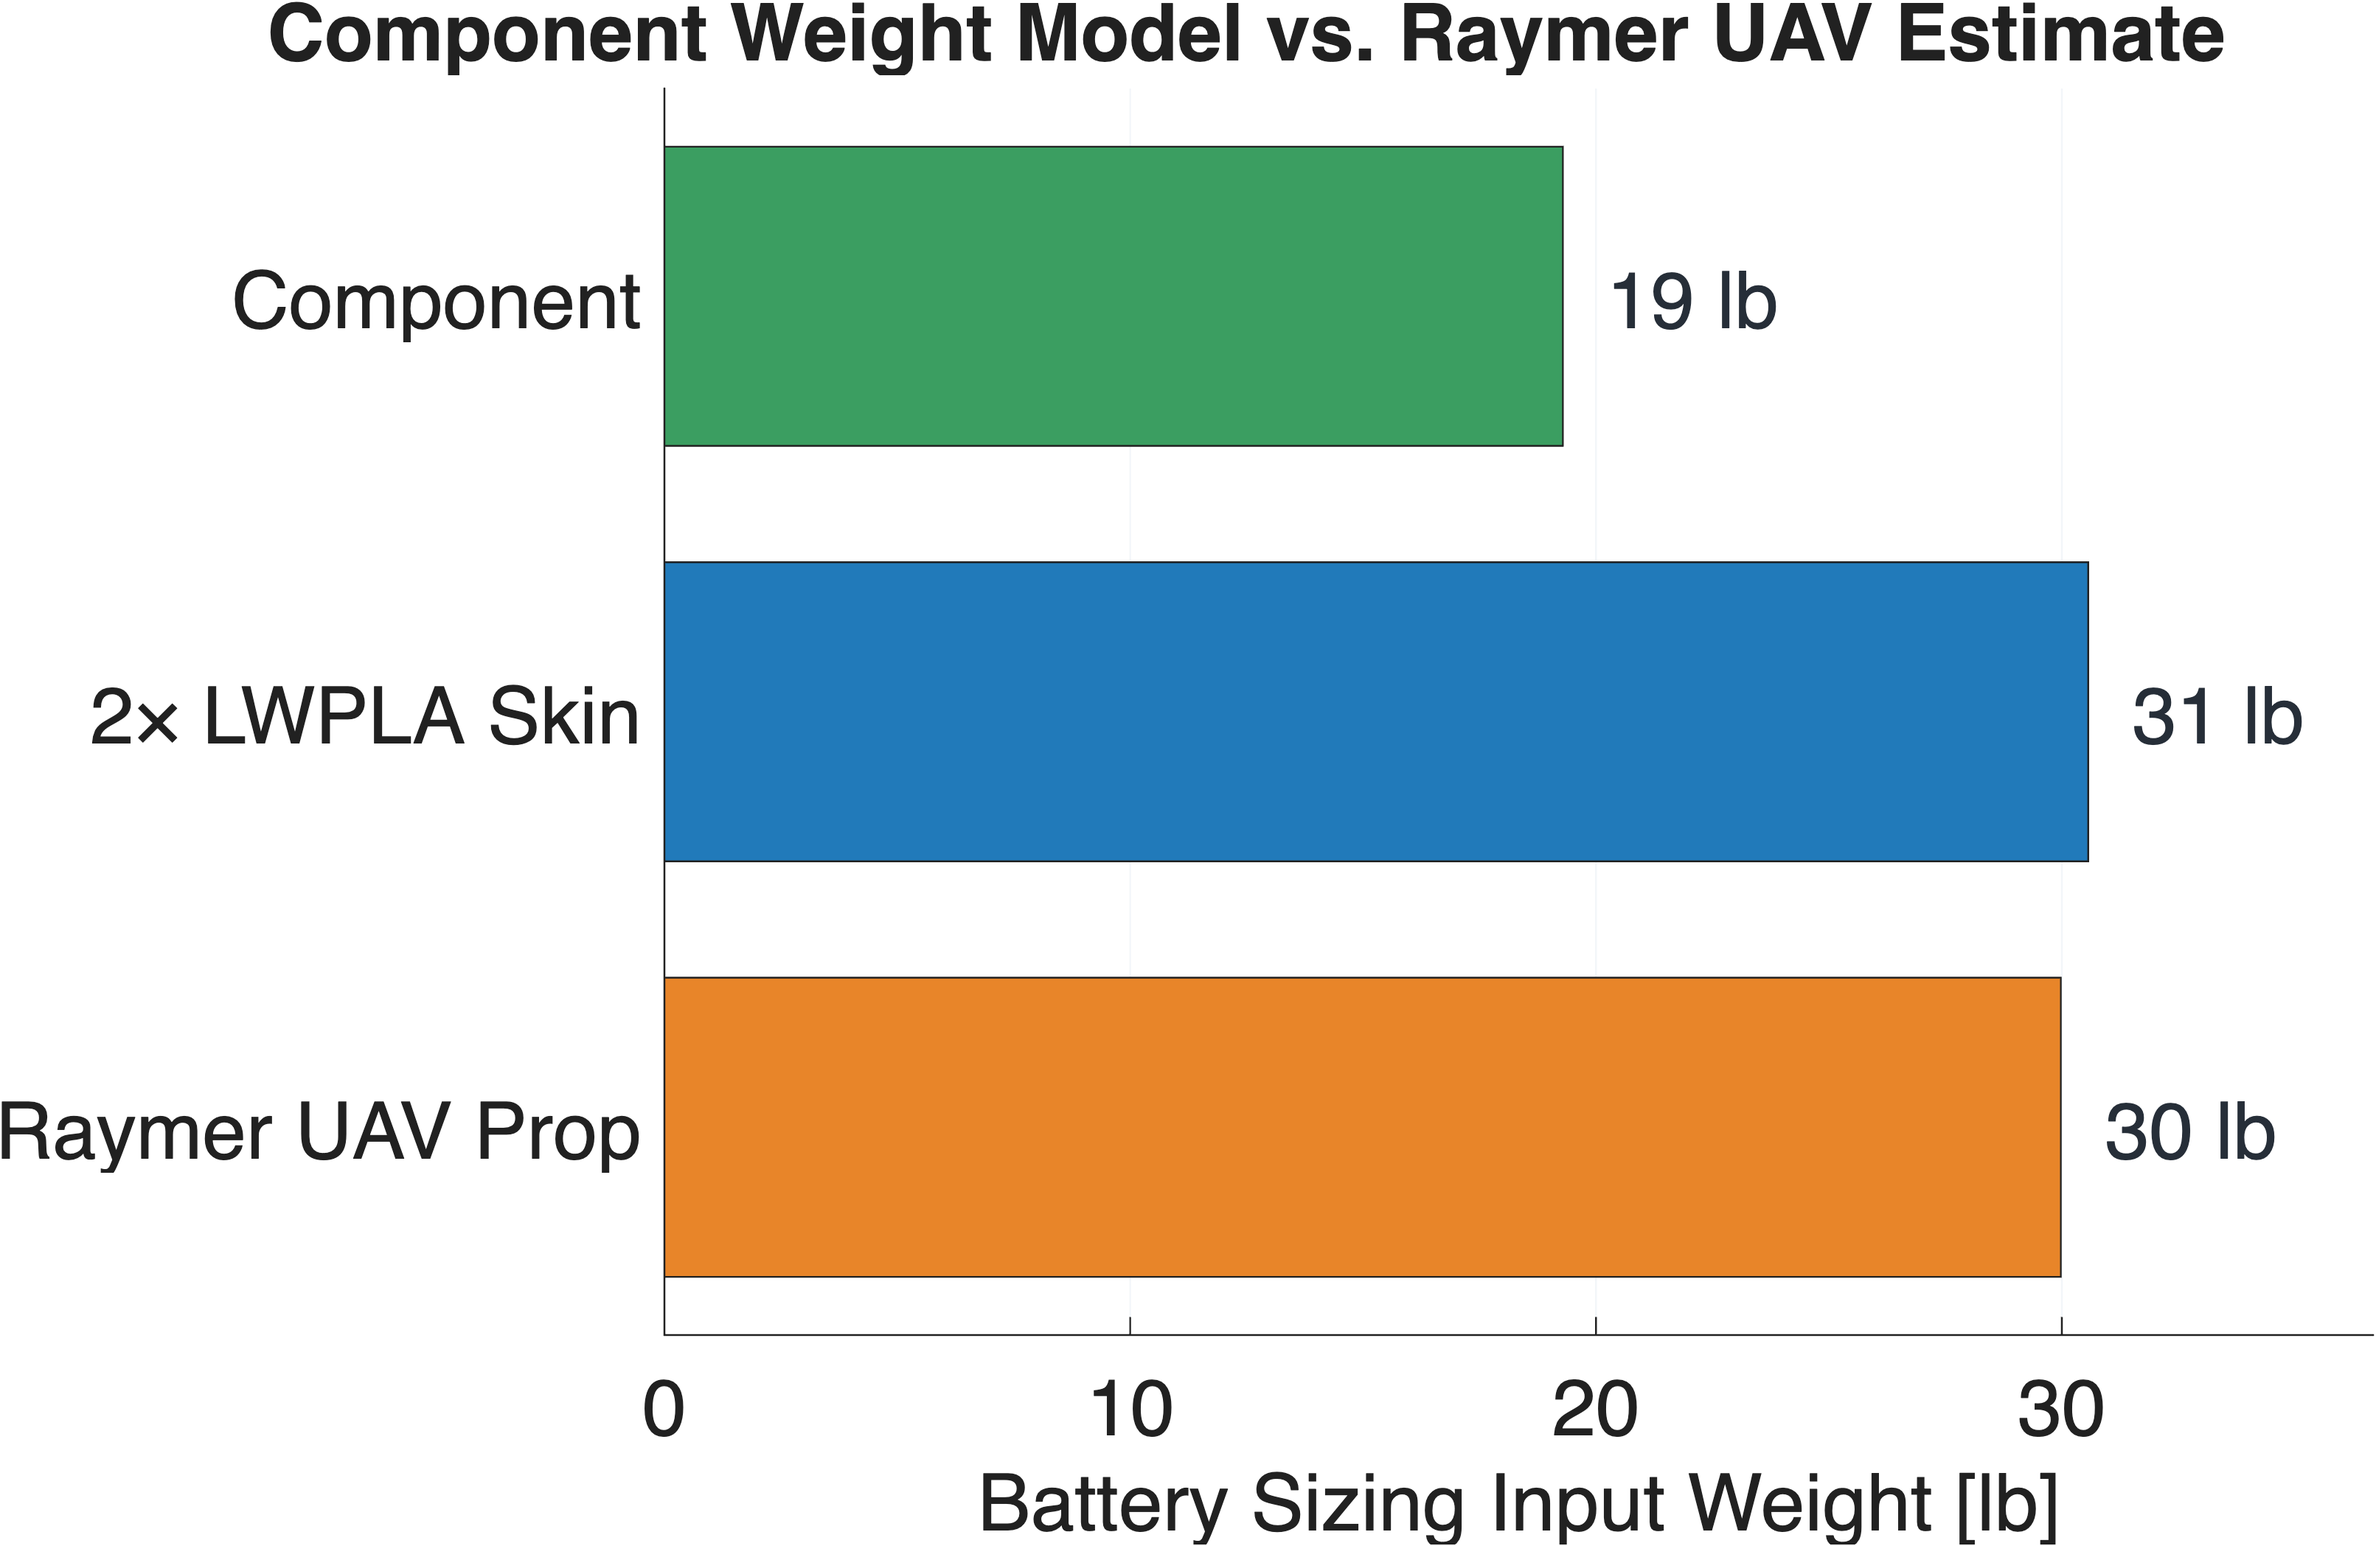
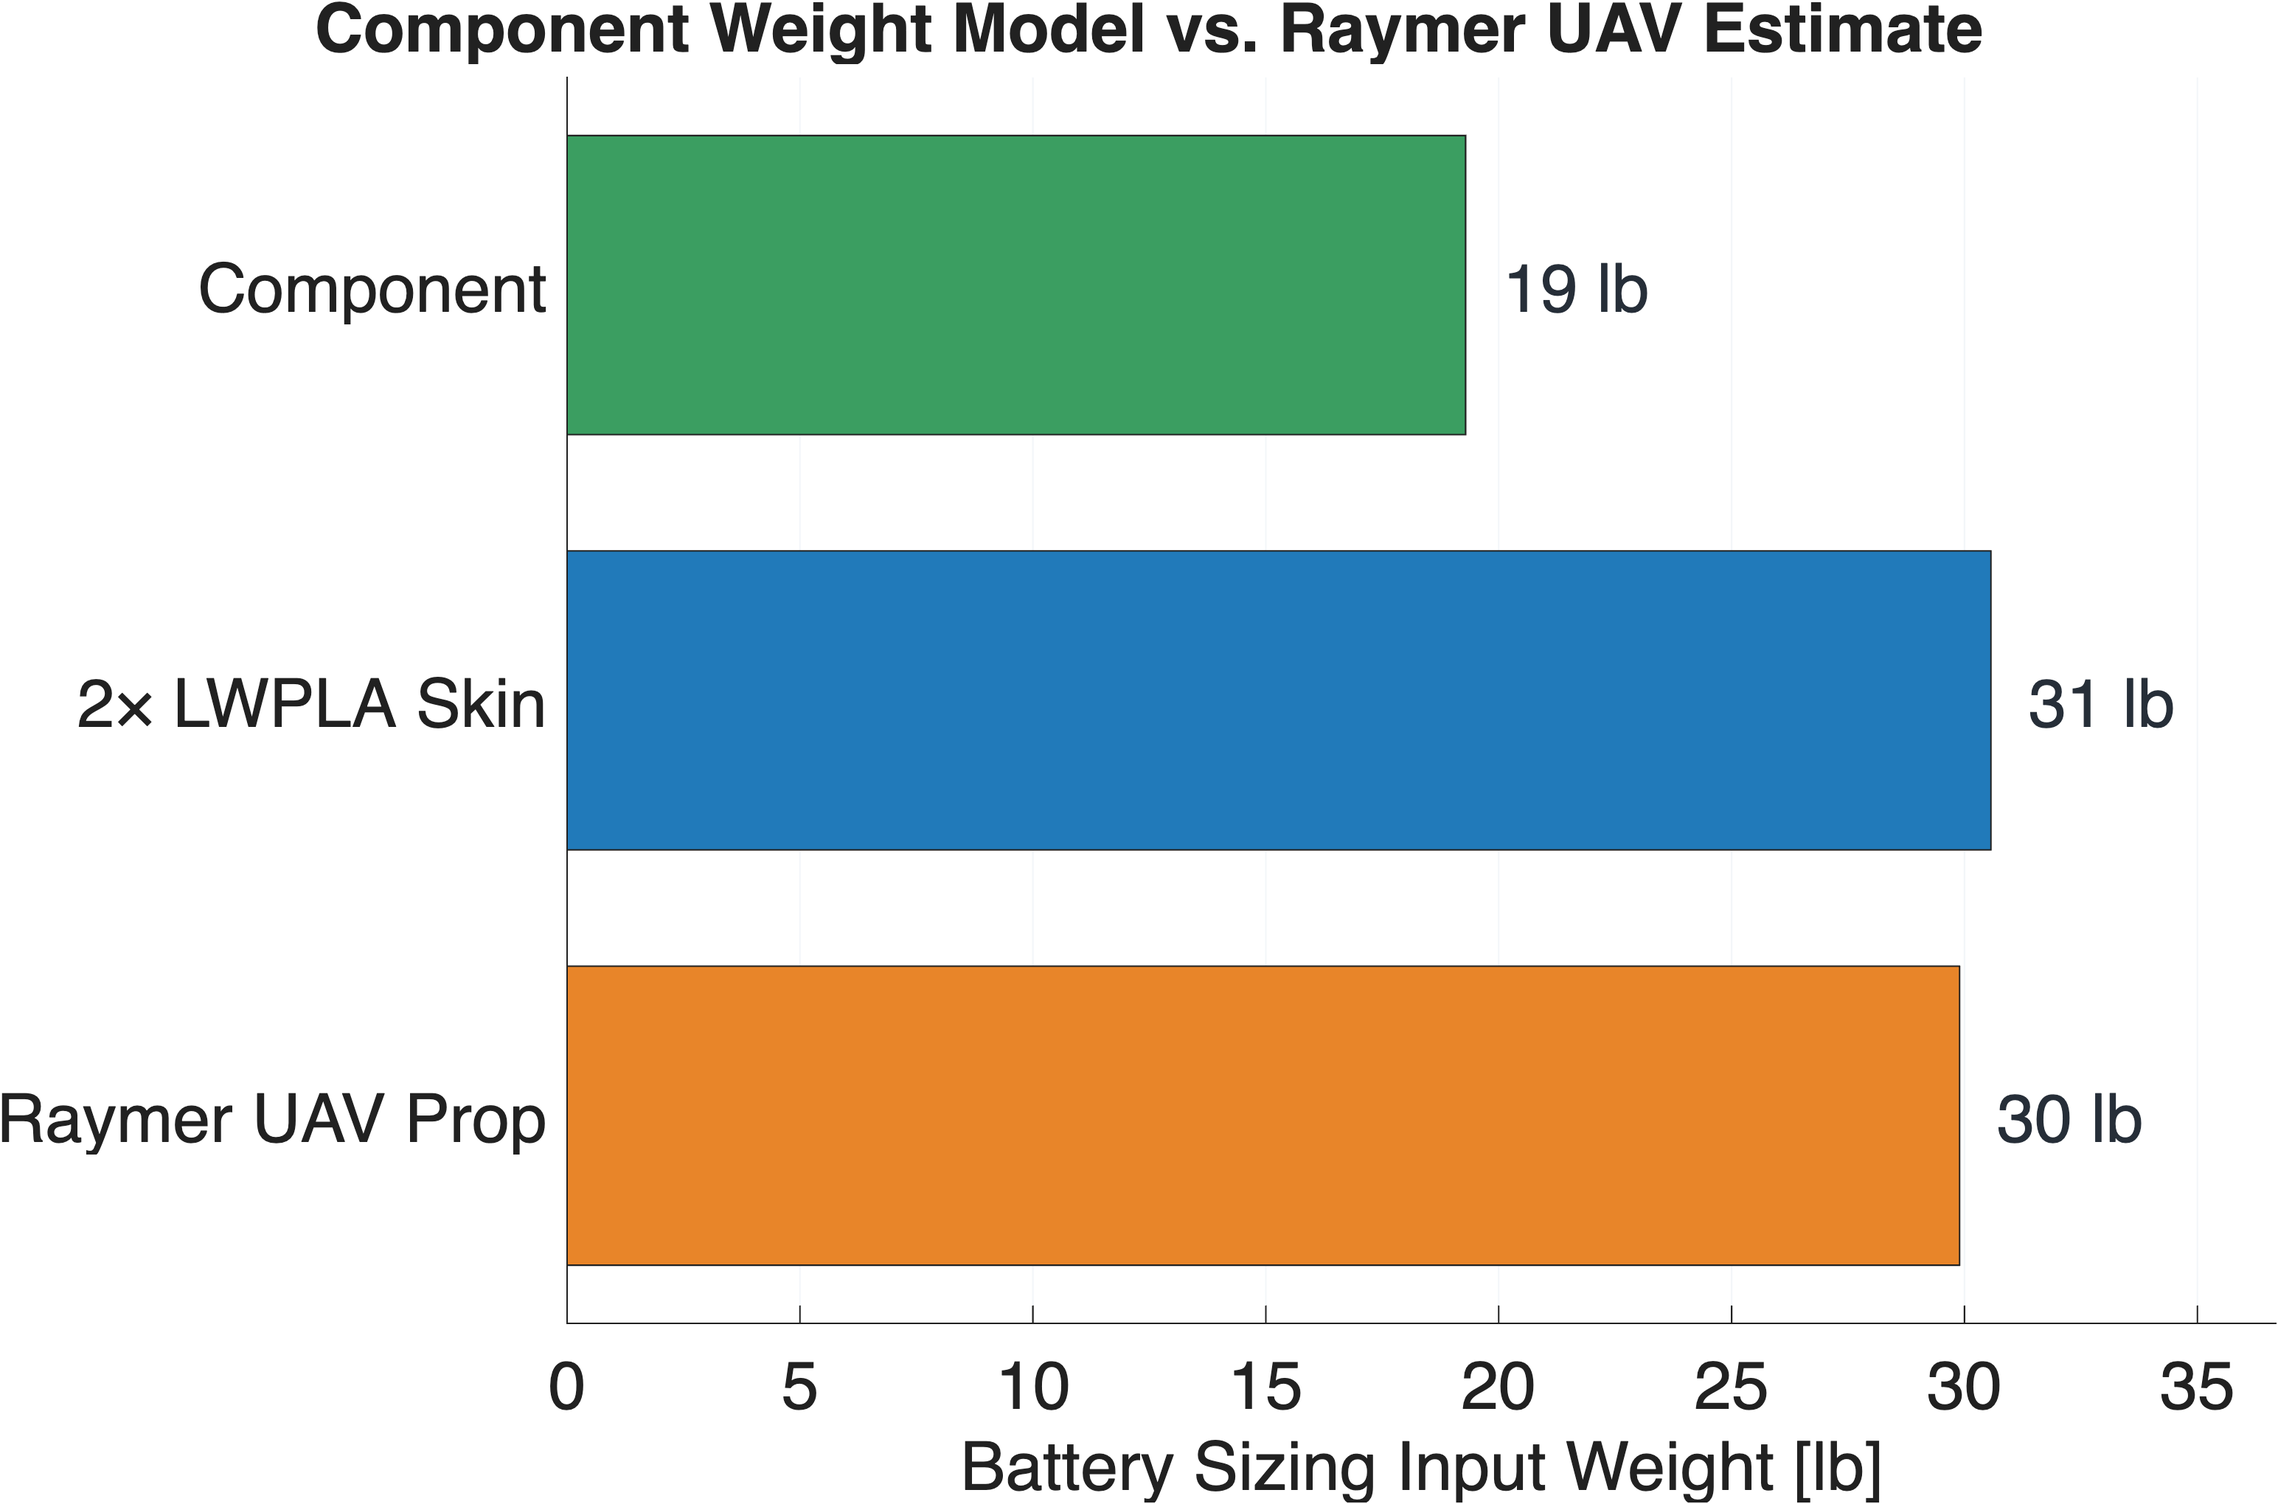
yupp

diff --git a/USE_THIS_DESIGN_CODE/SD_MAIN_AIRCRAFT_DESIGN_CODE.m b/USE_THIS_DESIGN_CODE/SD_MAIN_AIRCRAFT_DESIGN_CODE.m
@@ -37,6 +37,7 @@ addpath(genpath('Input Excel Sheets'));
 addpath(genpath('Main Model Functions'));
 addpath(genpath('Read Input Functions'));
 addpath(genpath('Validation Test Files'));
+addpath(genpath('New Model Funcs'));
 
 %% PHASE 1 - FIRST ORDER INITIAL CONCEPT
 %%%%%%%%%%%%%%%%USER INPUTS%%%%%%%%%%%%%%%%%%%
